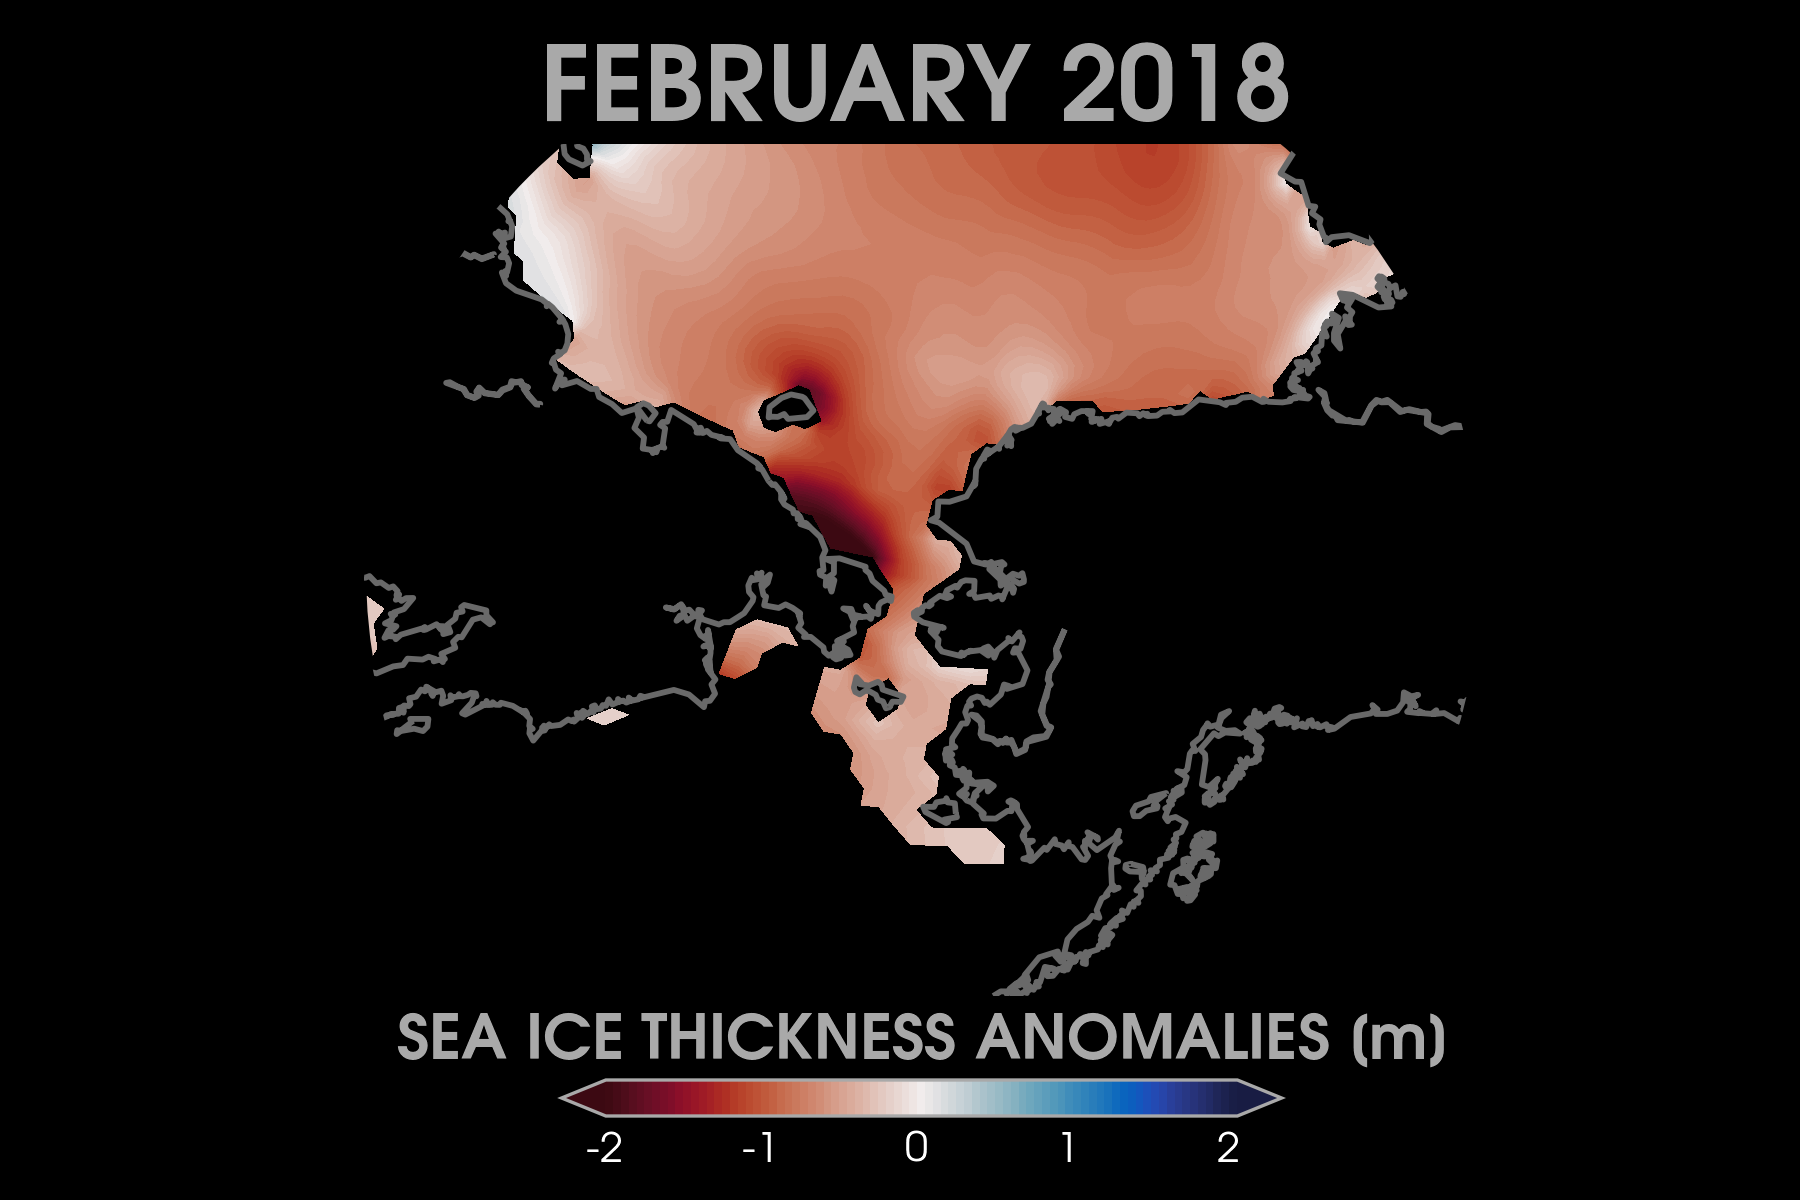
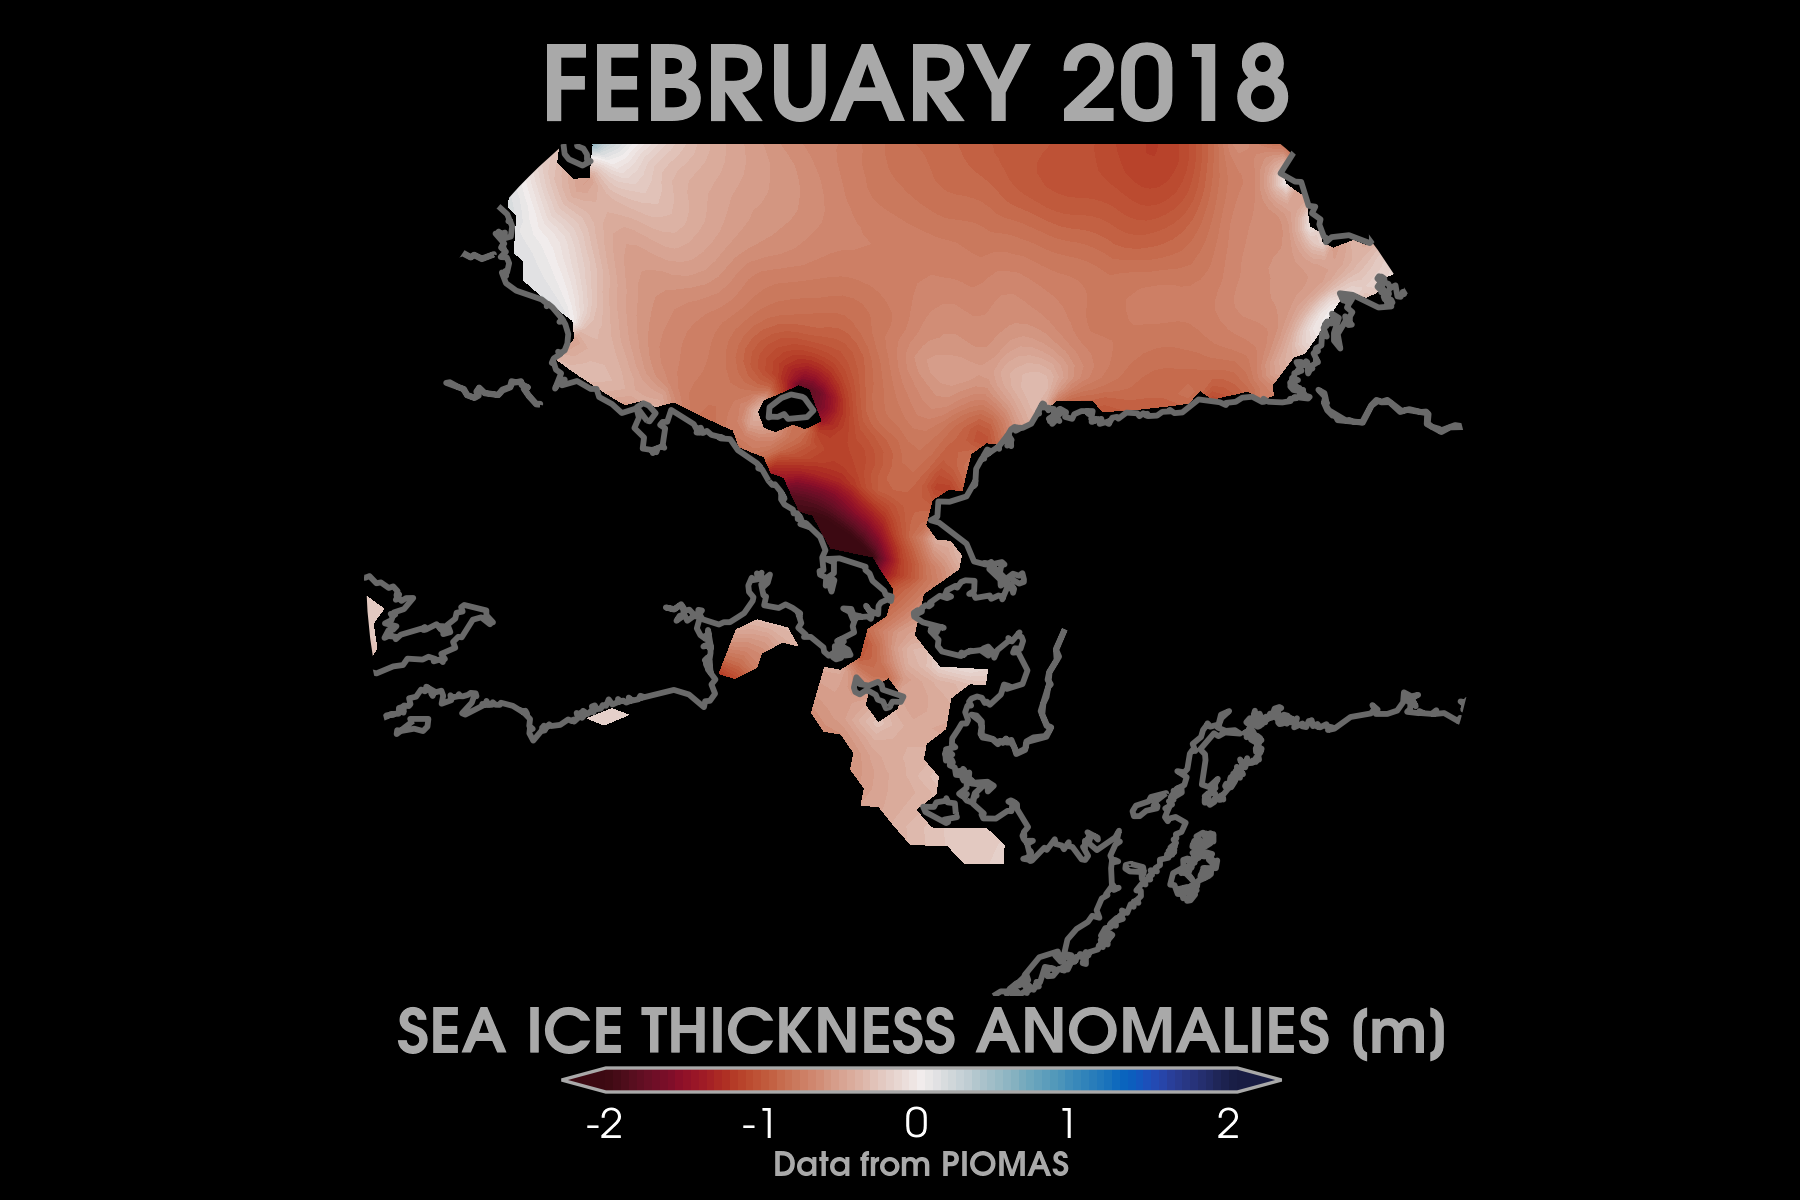
fig references

Changed region(s): [[0.2178, 0.8325, 0.8089, 0.9867]]

diff --git a/Scripts/plot_BeringSeaIceThickness_anomalies.py b/Scripts/plot_BeringSeaIceThickness_anomalies.py
@@ -36,26 +36,26 @@ titletime = currentmn + '/' + currentdy + '/' + currentyr
 
 print('\n' '----Plot Sea Ice Thickness - %s----' % titletime) 
 
-### Use functions
-lats,lons,sit = CP.readPiomas(directorydata,years,0.01)
-meansit = CP.meanThick(1981,2010,years,sit)
-
-meandjf = np.nanmean(meansit[np.array([0,1,-1]),:,:],axis=0)
-
-print('Completed: Beginning plotting!')
-
-###########################################################################
-###########################################################################
-### Calculate djf and anomaly
-
-sitdec = sit[-2,-1,:,:]
-sitjan = sit[-1,0,:,:]
-sitfeb = sit[-1,1,:,:]
-
-sitdjf = (sitdec+sitjan+sitfeb)/3.
-anom = sitdjf - meandjf
-
-anomf = sit[-1,1,:,:]-meansit[1,:,:]
+#### Use functions
+#lats,lons,sit = CP.readPiomas(directorydata,years,0.01)
+#meansit = CP.meanThick(1981,2010,years,sit)
+#
+#meandjf = np.nanmean(meansit[np.array([0,1,-1]),:,:],axis=0)
+#
+#print('Completed: Beginning plotting!')
+#
+############################################################################
+############################################################################
+#### Calculate djf and anomaly
+#
+#sitdec = sit[-2,-1,:,:]
+#sitjan = sit[-1,0,:,:]
+#sitfeb = sit[-1,1,:,:]
+#
+#sitdjf = (sitdec+sitjan+sitfeb)/3.
+#anom = sitdjf - meandjf
+#
+#anomf = sit[-1,1,:,:]-meansit[1,:,:]
 
 ###############################################################################
 ###############################################################################
@@ -188,19 +188,22 @@ cs.set_cmap(cmap)
 
 m.fillcontinents(color='k')
 
-cbar_ax = fig.add_axes([0.312,0.07,0.4,0.03])                
+cbar_ax = fig.add_axes([0.312,0.09,0.4,0.02])                
 cbar = fig.colorbar(cs,cax=cbar_ax,orientation='horizontal',
                     extend='both',extendfrac=0.07,drawedges=False)
 barlim = np.arange(-2,3,1)
 cbar.set_ticks(barlim)
 cbar.set_ticklabels(list(map(str,barlim))) 
 cbar.set_label(r'\textbf{SEA ICE THICKNESS ANOMALIES [m]}',fontsize=15,
-                         color='darkgrey',labelpad=-38)
+                         color='darkgrey',labelpad=-33.5)
 cbar.ax.tick_params(axis='x', size=.001)
 
 ax.annotate(r'\textbf{FEBRUARY 2018}',
             xy=(0, 0),xytext=(0.5,1.06),xycoords='axes fraction',
             fontsize=25,color='darkgrey',rotation=0,ha='center',va='center')
+ax.annotate(r'\textbf{Data from PIOMAS}',
+            xy=(0, 0),xytext=(0.5,-0.2),xycoords='axes fraction',
+            fontsize=8,color='darkgrey',rotation=0,ha='center',va='center')
 
 fig.subplots_adjust(bottom=0.17)
 

diff --git a/Scripts/plot_BeringSeaIceConc.py b/Scripts/plot_BeringSeaIceConc.py
@@ -156,6 +156,10 @@ cbar.set_label(r'\textbf{SEA ICE CONCENTRATION [\%]}',fontsize=13,
                          color='darkgrey',labelpad=-36)
 cbar.ax.tick_params(axis='x', size=.001)
 
+ax1.annotate(r'\textbf{Historical Sea Ice Atlas, University of Alaska}',
+            xy=(0, 0),xytext=(0.51,0.07),xycoords='figure fraction',
+            fontsize=8,color='darkgrey',rotation=0,ha='center',va='center')
+
 ax1.annotate(r'\textbf{1979--2017}',
             xy=(0, 0),xytext=(0.5,1.02),xycoords='axes fraction',
             fontsize=25,color='darkgrey',rotation=0,ha='center',va='center')
